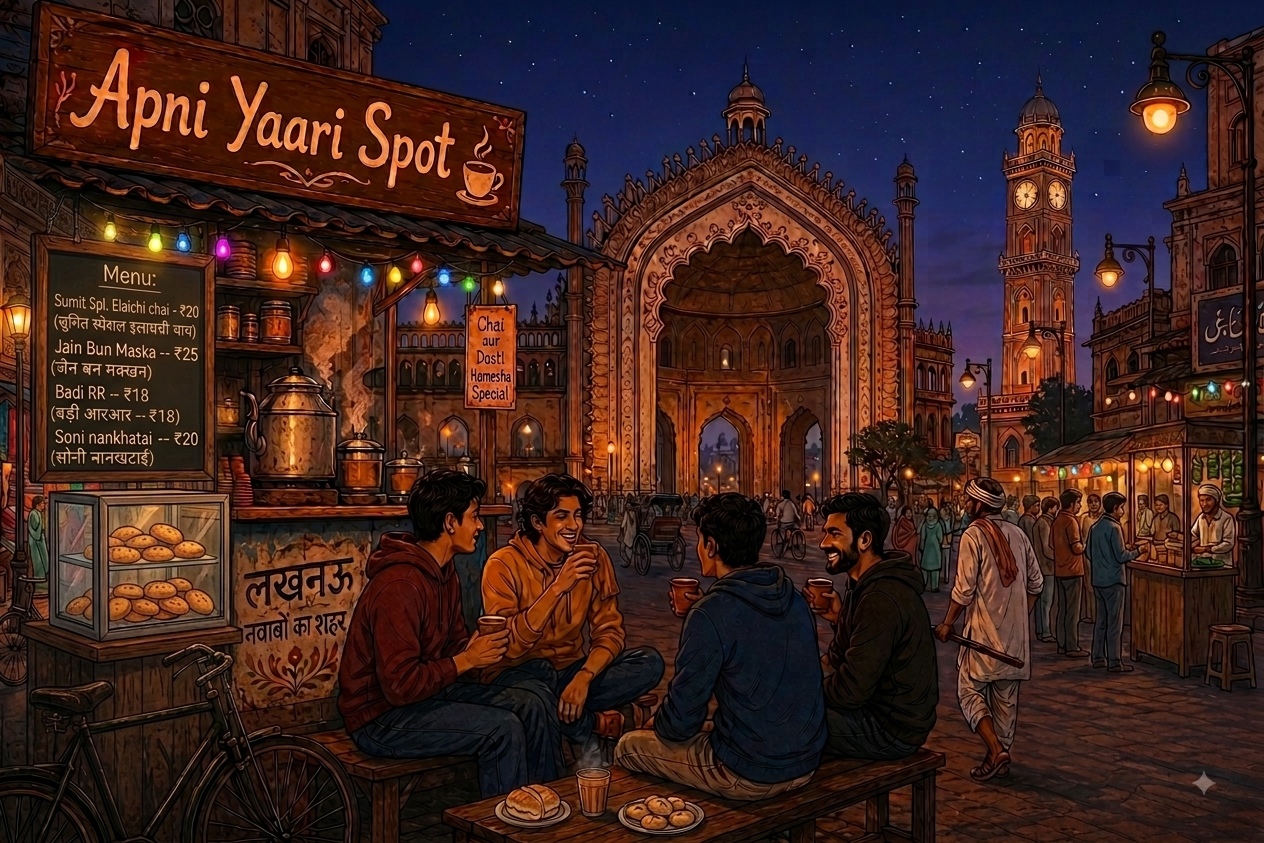
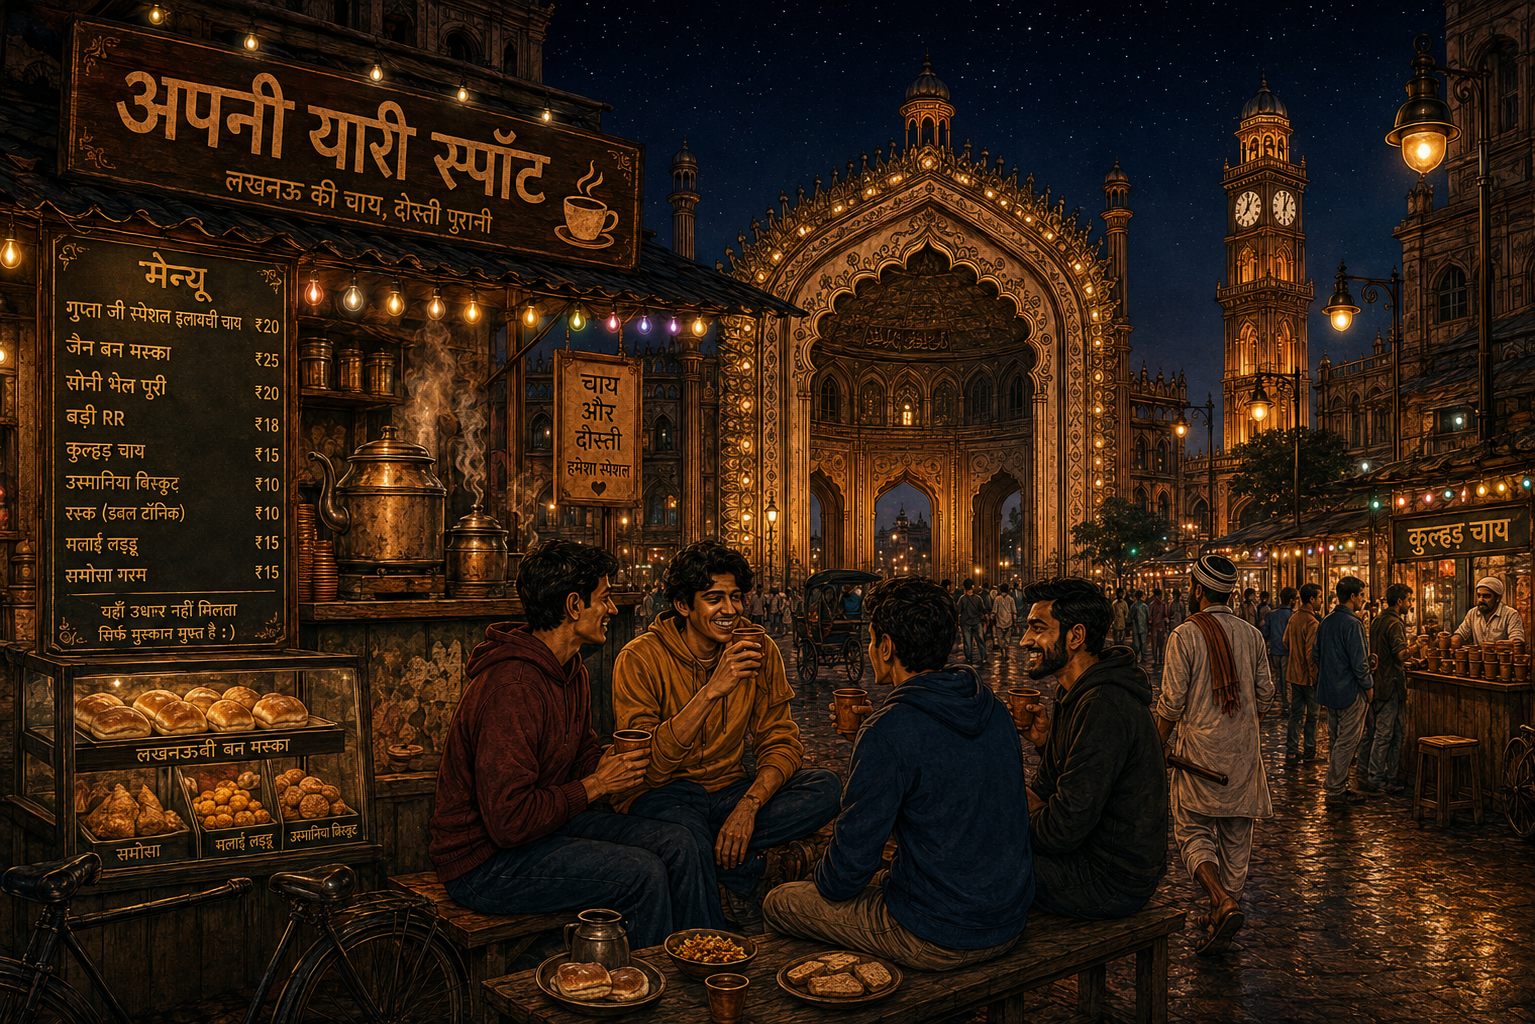
bakcground updated

diff --git a/css/styles.css b/css/styles.css
@@ -279,6 +279,7 @@ body {
   flex-direction: column;
   align-items: center;
   gap: 0.45rem;
+  z-index: 3; /* Ensure it's below player-disc when closed */
 }
 
 /* Lucknow quote — painted sign strip */
@@ -424,7 +425,7 @@ body {
 /* Fullscreen */
 body.is-fullscreen .backdrop__img {
   object-fit: contain;
-  object-position: center center;
+  object-fit: cover;
 }
 
 body.is-fullscreen .backdrop {
@@ -442,8 +443,8 @@ body.is-fullscreen .backdrop__overlay {
   position: relative;
   width: 100%;
   background: rgba(26, 20, 16, 0.85);
-  backdrop-filter: blur(14px);
-  -webkit-backdrop-filter: blur(14px);
+  backdrop-filter: none; /* Removed blur as per user request */
+  -webkit-backdrop-filter: none; /* Removed blur as per user request */
   border: 1px solid rgba(232, 146, 58, 0.22);
   border-radius: 12px;
   padding: 0.5rem 0.65rem;
@@ -571,7 +572,7 @@ body.is-fullscreen .backdrop__overlay {
   }
 
   .backdrop__img {
-    object-fit: contain;
+    object-fit: cover;
     object-position: center center;
   }
 
@@ -634,6 +635,7 @@ body.is-fullscreen .backdrop__overlay {
     transform: translateY(0);
     opacity: 1;
     pointer-events: auto;
+    z-index: 6; /* Ensure it's above player-disc and backdrop when open */
   }
 
   .player-backdrop[hidden] {
@@ -675,21 +677,70 @@ body.is-fullscreen .backdrop__overlay {
   }
 
   .player-card {
-    padding: 0.65rem 0.75rem 0.55rem;
+    padding: 0.65rem 0.25rem 0.55rem; /* Reduced horizontal padding for better fit on mobile */
     border-radius: 14px 14px 12px 12px;
+    backdrop-filter: none; /* Ensure no blur on the card itself */
+    -webkit-backdrop-filter: none;
   }
 
   .player-card__title {
     font-size: 0.72rem;
-    padding-right: 1.5rem;
+    padding-right: 0.5rem; /* Reduced padding to give more space for controls */
   }
 }
 
-@media (max-width: 480px) {
+.chai-toast {
+  position: absolute;
+  bottom: 70px; /* Above the cup */
+  left: 50%;
+  transform: translateX(-50%);
+  background: rgba(26, 20, 16, 0.9);
+  color: var(--cream);
+  padding: 0.5rem 0.8rem;
+  border-radius: 8px;
+  font-size: 0.75rem;
+  white-space: nowrap;
+  opacity: 0;
+  visibility: hidden;
+  transition: opacity 0.3s ease-out, visibility 0.3s ease-out;
+  box-shadow: 0 2px 8px rgba(0, 0, 0, 0.3);
+  z-index: 8;
+}
+
+.chai-toast.show {
+  opacity: 1;
+  visibility: visible;
+}
+
+/* Confetti */
+.confetti-container {
+  position: absolute;
+  inset: 0;
+  overflow: hidden;
+  pointer-events: none;
+  z-index: 9;
+}
+
+.confetti {
+  position: absolute;
+  width: 8px;
+  height: 8px;
+  background-color: var(--amber); /* Default color */
+  opacity: 0;
+  animation: confetti-fall 2s ease-out forwards;
+}
+
+@keyframes confetti-fall {
+  0% { transform: translateY(0) rotate(0deg); opacity: 1; }
+  100% { transform: translateY(100px) rotate(720deg); opacity: 0; }
+}
+
+@media (max-width: 768px) {
   .player-disc {
     width: 52px;
     height: 52px;
   }
+
 }
 
 @media (min-width: 769px) {

diff --git a/js/app.js b/js/app.js
@@ -58,15 +58,9 @@
     ambientToggle: $("#ambient-toggle"),
     iframe: $("#yt-embed"),
     localAudio: $("#local-audio"),
+    backdropImg: $(".backdrop__img"), // Added to reference the backdrop image
     fileWarning: $("#file-warning"),
   };
-
-  function formatTime(seconds) {
-    if (!seconds || isNaN(seconds)) return "0:00";
-    const m = Math.floor(seconds / 60);
-    const s = Math.floor(seconds % 60);
-    return `${m}:${s.toString().padStart(2, "0")}`;
-  }
 
   function ytPlayerVars(autoplay) {
     const vars = {
@@ -140,6 +134,7 @@
     const pl = PLAYLISTS[currentPlaylistId];
     els.title.textContent = song.title;
     els.artist.textContent = song.artist;
+    els.artist.textContent = ""; // Remove artist name as requested
     els.playlistLabel.textContent = pl.name;
     if (els.sourceBadge) {
       if (source === "local") els.sourceBadge.textContent = "Local";
@@ -178,6 +173,14 @@
     els.playerDisc?.setAttribute("aria-expanded", "false");
     if (els.playerBackdrop) els.playerBackdrop.hidden = true;
     document.body.classList.remove("player-sheet-open");
+  }
+
+  function updateBackdropImage() {
+    if (isMobileLayout()) {
+      els.backdropImg.src = "assets/chai-backdrop_new_mobile.png";
+    } else {
+      els.backdropImg.src = "assets/chai-backdrop_new.png";
+    }
   }
 
   function togglePlayerSheet() {
@@ -465,6 +468,7 @@
     els.playerBackdrop?.addEventListener("click", closePlayerSheet);
 
     MOBILE_MQ.addEventListener("change", () => {
+      updateBackdropImage(); // Update image on mobile layout change
       if (!isMobileLayout()) closePlayerSheet();
     });
 

diff --git a/index.html b/index.html
@@ -18,7 +18,8 @@
 </head>
 <body>
   <div class="backdrop" aria-hidden="true">
-    <img src="assets/chai-backdrop.jpg" alt="Apni Yaari Spot — illustrated Lucknow chai stall" class="backdrop__img">
+    <!-- The image src will be dynamically set by app.js based on screen size -->
+    <img src="assets/chai-backdrop_new.png" alt="Apni Yaari Spot — illustrated Lucknow chai stall" class="backdrop__img">
     <div class="backdrop__overlay"></div>
     <div class="steam steam--1"></div>
     <div class="steam steam--2"></div>

diff --git a/README.md b/README.md
@@ -4,7 +4,7 @@ An ambient always-on radio for a Lucknow street-corner chai stall. Four friends,
 
 **Creator:** Sumit Gupta
 
-![Apni Yaari Spot](assets/chai-backdrop.jpg)
+![Apni Yaari Spot](assets/chai-backdrop_new.png)
 
 ## Features
 
